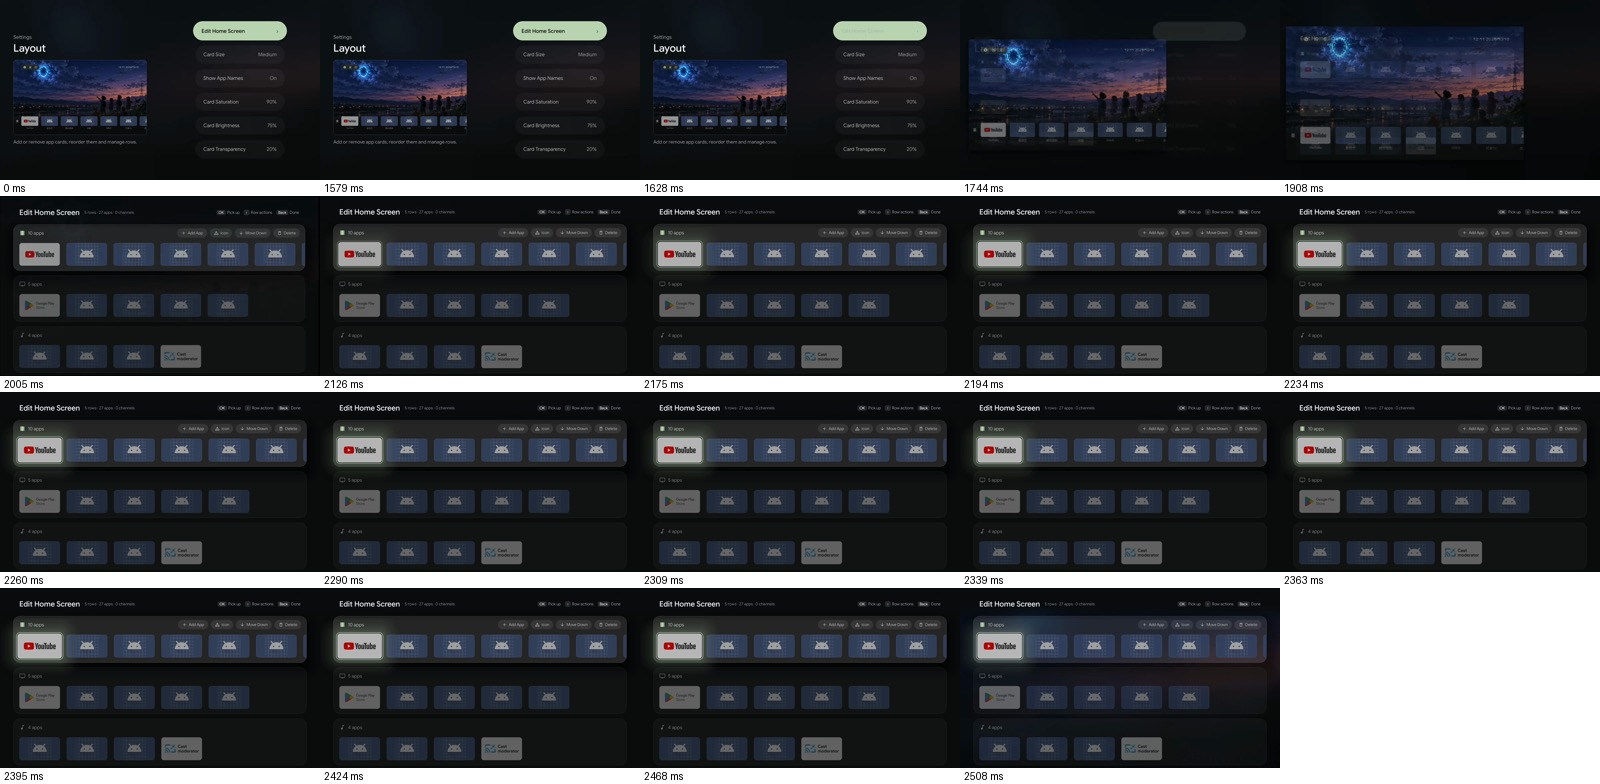
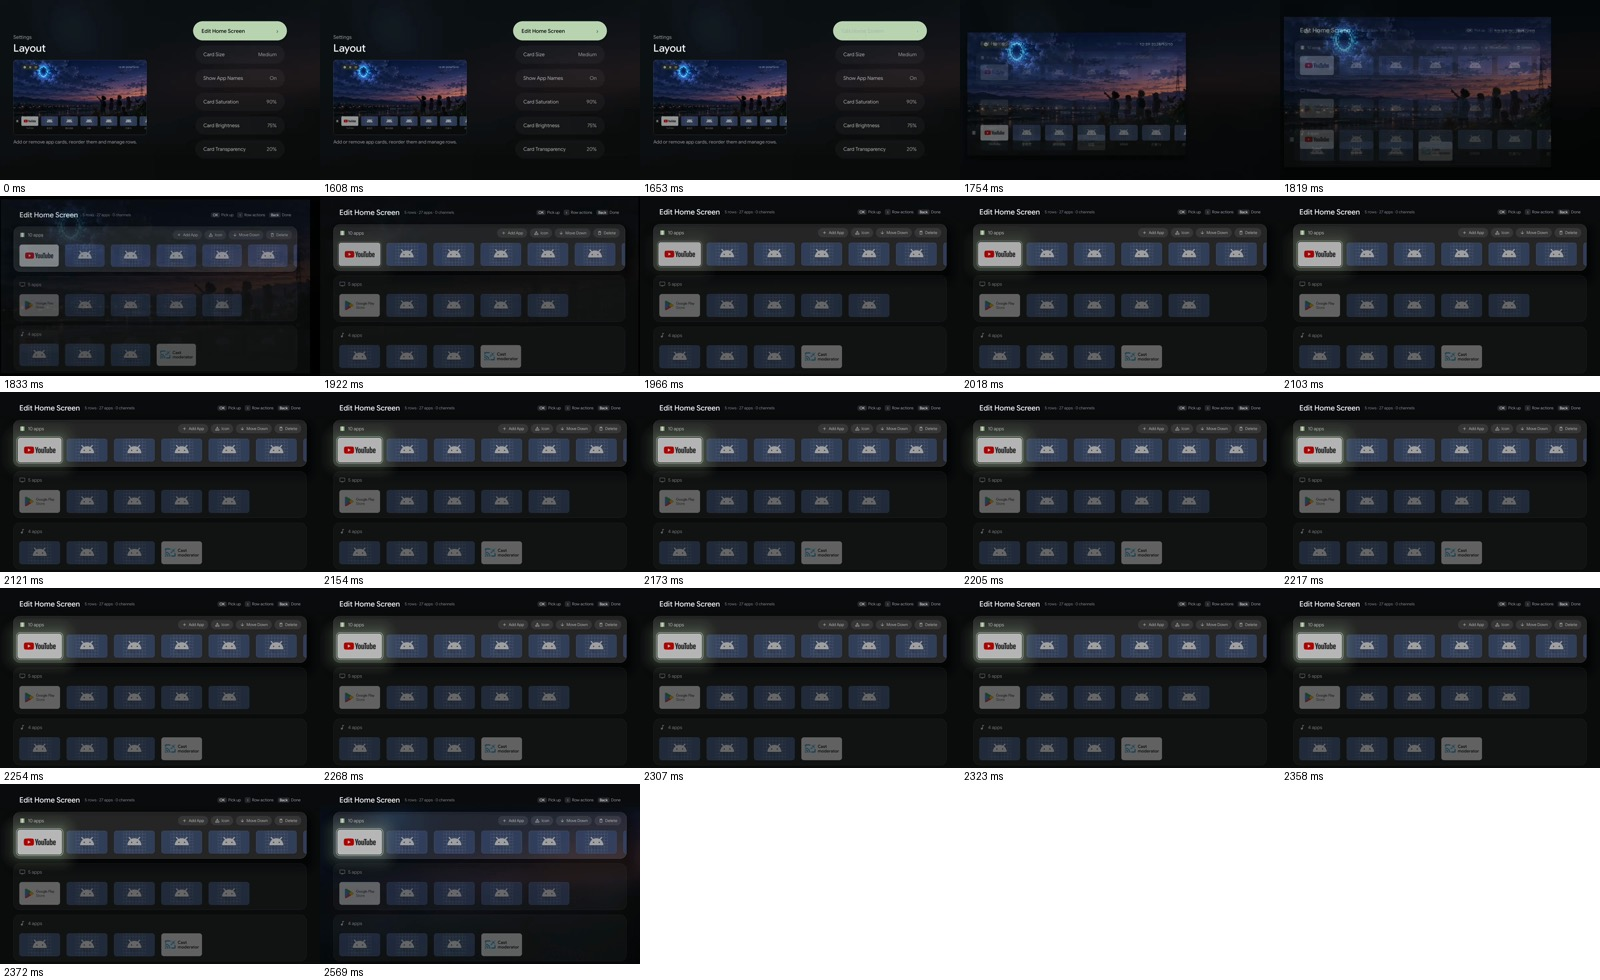
perf(edit): 卡片图转 HARDWARE 位图,首页 / 编辑页共用显存不再逐帧重传;缓存不收旧 revision;预读期间首页浮层也挡进页(R167 复审 1)

diff --git a/app/src/main/java/com/uniteduone/launcher/AppEntryCache.kt b/app/src/main/java/com/uniteduone/launcher/AppEntryCache.kt
@@ -1,6 +1,7 @@
 package com.uniteduone.launcher
 
 import android.content.Context
+import android.graphics.Bitmap
 
 /**
  * R167(报告 perf-2026-10-10 #2):首页读好的卡片数据(含已缩到卡片尺寸的位图)在进程里留一份,编辑页进页第一帧直接用,
@@ -16,7 +17,13 @@ internal object AppEntryCache {
     /** 第几个 MainActivity 实例的缓存([clear] +1)。读取开始时记下,发布时对不上就丢(上一个实例在 IO 线程上没读完的那一趟)。 */
     @Volatile var epoch = 0
         private set
-    @Synchronized fun publish(s: AppEntrySnapshot, epoch: Int) { if (epoch == this.epoch) snap = s }
+    /**
+     * 只收本实例([epoch] 对得上)、且 revision 不比手上那份旧的快照:revision 在一个实例里只增不减,
+     * 晚回来的旧读取若盖掉新的一份,下一次同号查询就会没命中、整份重解码一遍。
+     */
+    @Synchronized fun publish(s: AppEntrySnapshot, epoch: Int) {
+        if (epoch == this.epoch && shouldReplace(snap, s)) snap = s
+    }
     fun lookup(revision: Int, needed: Set<String>): Map<String, AppEntry>? = appEntryHit(snap, revision, needed)
     /** 同一 revision 的那一份(不管覆不覆盖):[loadAppEntries] 只补查缺的包。 */
     fun sameRevision(revision: Int): AppEntrySnapshot? = snap?.takeIf { it.revision == revision }
@@ -26,6 +33,10 @@ internal object AppEntryCache {
      */
     @Synchronized fun clear() { snap = null; epoch++ }
 }
+
+/** 发布判据:手上没有,或新来的 revision 不比手上的旧(同号 = 同一 revision 补查后的合并结果,照收)。 */
+internal fun shouldReplace(current: AppEntrySnapshot?, incoming: AppEntrySnapshot): Boolean =
+    current == null || incoming.revision >= current.revision
 
 /** 命中 = 同一个 revision,且这份查过的包覆盖了 [needed]。 */
 internal fun appEntryHit(s: AppEntrySnapshot?, revision: Int, needed: Set<String>): Map<String, AppEntry>? =
@@ -51,7 +62,24 @@ internal fun loadAppEntries(ctx: Context, revision: Int, needed: Set<String>): M
     val base = AppEntryCache.sameRevision(revision)
     val missing = if (base == null) needed else needed - base.checked
     val fresh = Apps.load(ctx, missing, withBitmaps = missing, withLabels = missing)
+        .mapValues { (pkg, e) -> if (pkg in missing) e.withGpuCard() else e }
     val snap = if (base == null) AppEntrySnapshot(revision, needed, fresh) else mergeAppEntries(base, fresh, missing)
     AppEntryCache.publish(snap, epoch)
     snap.entries
+}
+
+/**
+ * R167 复审 1(trace 实证):卡片位图是 `Canvas` / `createScaledBitmap` 画出来的**可变**位图,HWUI 每次重录显示列表都给它一个
+ * 新的 SkImage ID(`kNeedNewImageUniqueID`),GPU 纹理缓存永远不命中——设置外壳收起、编辑页首帧这几帧里同一批卡片图每帧
+ * 重传一遍(A 段 `Texture upload(7808)` → `(7960)` → `(8092)`,同一张 144×144 三帧三个 ID)。转成 HARDWARE 位图:
+ * 解码时上传一次、之后首页与编辑页画的都是同一块显存,不再有逐帧上传。
+ * **只在这里转**:卡片图的像素(边缘色 / 横幅判据)在 [Apps.entryOf] 里已经读完;之后只被画(AppCardImage / GearMenu)。
+ * `entryOf` 的另两个调用方(添加应用列表的 pickerCard、「恢复原图」的 originalIcon——后者还要再 getPixels 取底色)不经过这里,保持软件位图。
+ * 转不成(显存不足等)就留原图,照样能画。
+ */
+private fun AppEntry.withGpuCard(): AppEntry {
+    val c = card ?: return this
+    if (c.config == Bitmap.Config.HARDWARE) return this
+    val hw = runCatching { c.copy(Bitmap.Config.HARDWARE, false) }.getOrNull() ?: return this
+    return copy(card = hw)
 }

diff --git a/app/src/test/java/com/uniteduone/launcher/AppEntryCacheTest.kt b/app/src/test/java/com/uniteduone/launcher/AppEntryCacheTest.kt
@@ -50,4 +50,21 @@ class AppEntryCacheTest {
         assertEquals(e("n"), m.entries["n"])
         assertEquals(entries + ("n" to e("n")), appEntryHit(m, 3, setOf("a", "n")).orEmpty().filterKeys { it != "other" })
     }
+    /** 复审 2:revision 5 的读取先发布,revision 4 的那一趟晚回来——不能盖掉新的(否则下一次查 5 没命中、整份重解码) */
+    @Test fun stalerRevisionDoesNotReplaceNewer() {
+        AppEntryCache.clear()
+        val ep = AppEntryCache.epoch
+        AppEntryCache.publish(AppEntrySnapshot(revision = 5, checked = setOf("a"), entries = entries), ep)
+        AppEntryCache.publish(AppEntrySnapshot(revision = 4, checked = setOf("a"), entries = entries), ep)
+        assertEquals(entries, AppEntryCache.lookup(5, setOf("a")))
+        assertNull(AppEntryCache.lookup(4, setOf("a")))
+    }
+    /** 同一 revision 补查后的合并结果照收(checked 变大) */
+    @Test fun sameRevisionMergeReplaces() {
+        AppEntryCache.clear()
+        val ep = AppEntryCache.epoch
+        AppEntryCache.publish(AppEntrySnapshot(revision = 2, checked = setOf("a"), entries = entries), ep)
+        AppEntryCache.publish(AppEntrySnapshot(revision = 2, checked = setOf("a", "b"), entries = entries), ep)
+        assertEquals(entries, AppEntryCache.lookup(2, setOf("a", "b")))
+    }
 }

diff --git a/app/src/main/java/com/uniteduone/launcher/MainActivity.kt b/app/src/main/java/com/uniteduone/launcher/MainActivity.kt
@@ -1586,7 +1586,10 @@ class MainActivity : ComponentActivity() {
         lifecycleScope.launch {
             // 在 layoutWrites 上读:刚退出的上一轮编辑页还在途的写盘(NonCancellable,见 persist)一定先落地,种子不会是旧文件
             val seed = withContext(layoutWrites) { runCatching { Layout.read(this@MainActivity) }.getOrNull() }
-            val blocked = pickerTarget != null || about || appsPage || inputsPage || onboarding
+            // 首页自己的浮层(长按卡片菜单 / 改名页)与原地移动态也算:预读期间打开了它们,编辑页不能叠上去把它们吞掉
+            // (应用页 / 输入源页里的菜单、选图页里的确认页已随所在的整屏页一并挡住)
+            val blocked = pickerTarget != null || about || appsPage || inputsPage || onboarding ||
+                cardMenu != null || renameTarget != null || moving != null
             if (!shouldEnterEdit(my, editEnterSeq, lifecycle.currentState.isAtLeast(androidx.lifecycle.Lifecycle.State.RESUMED), blocked)) return@launch
             editSeedRows = seed
             editing = true
